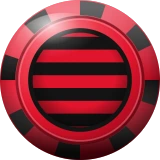
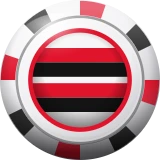
Damas: pedras dos times sem confundir com as do adversário
Flamengo: a pedra clara era vermelha e se misturava com a preta de aro
vermelho no tabuleiro rubro-negro; agora é branca (camisa 2) com aros
vermelhos e pretos. Fortaleza, Palmeiras e Santos: o medalhão da pedra
clara puxava pra cor da escura; agora o branco manda (listras finas), e a
escura do Fortaleza ficou num azul mais fechado.

diff --git a/style.css b/style.css
@@ -3787,7 +3787,7 @@ button.jg-olhos { font-family: inherit; cursor: pointer; }
 .jg-tab.tb-flamengo { background-image: url(arte-clubes/flamengo/tabuleiro.webp); border-color: #E0142C; box-shadow: 0 0 0 4px #120203, 0 0 34px rgba(224,20,44,.45); }
 .jg-tab.tb-flamengo .jg-c .crd { color: rgba(255,170,170,.6); }
 .jg-p.sk-flamengo.b { background-image: url(arte-clubes/flamengo/pedra-b.webp); border-color: #141414; box-shadow: inset 0 -3px 0 rgba(0, 0, 0, .3), 0 4px 8px rgba(0, 0, 0, .6); }
-.jg-p.sk-flamengo.b svg { fill: #FFFFFF; stroke: #3A0006; }
+.jg-p.sk-flamengo.b svg { fill: #E0142C; stroke: #5A0008; }
 .jg-p.sk-flamengo.p { background-image: url(arte-clubes/flamengo/pedra-p.webp); border-color: #E0142C; box-shadow: inset 0 -3px 0 rgba(0, 0, 0, .5), 0 4px 8px rgba(0, 0, 0, .7), 0 0 10px rgba(224,20,44,.55); }
 .jg-p.sk-flamengo.p svg { fill: #E0142C; stroke: #FFB0B0; }
 .jg-tab.tb-saopaulo { background-image: url(arte-clubes/saopaulo/tabuleiro.webp); border-color: #F2F2F2; box-shadow: 0 0 0 4px #0A0A0A, 0 0 34px rgba(215,20,31,.35); }
@@ -3816,7 +3816,7 @@ button.jg-olhos { font-family: inherit; cursor: pointer; }
 .jg-p.sk-vasco.p svg { fill: #E41B23; stroke: #FFFFFF; }
 .jg-tab.tb-fortaleza { background-image: url(arte-clubes/fortaleza/tabuleiro.webp); border-color: #E30613; box-shadow: 0 0 0 4px #04112E, 0 0 34px rgba(10,58,154,.5); }
 .jg-tab.tb-fortaleza .jg-c .crd { color: rgba(255,255,255,.6); }
-.jg-p.sk-fortaleza.b { background-image: url(arte-clubes/fortaleza/pedra-b.webp); border-color: #0A3A9A; box-shadow: inset 0 -3px 0 rgba(0, 0, 0, .3), 0 4px 8px rgba(0, 0, 0, .6); }
+.jg-p.sk-fortaleza.b { background-image: url(arte-clubes/fortaleza/pedra-b.webp); border-color: #EDEFF2; box-shadow: inset 0 -3px 0 rgba(0, 0, 0, .3), 0 4px 8px rgba(0, 0, 0, .6); }
 .jg-p.sk-fortaleza.b svg { fill: #0A3A9A; stroke: #021640; }
 .jg-p.sk-fortaleza.p { background-image: url(arte-clubes/fortaleza/pedra-p.webp); border-color: #E30613; box-shadow: inset 0 -3px 0 rgba(0, 0, 0, .5), 0 4px 8px rgba(0, 0, 0, .7), 0 0 10px rgba(227,6,19,.45); }
 .jg-p.sk-fortaleza.p svg { fill: #FFFFFF; stroke: #FFD0D0; }
